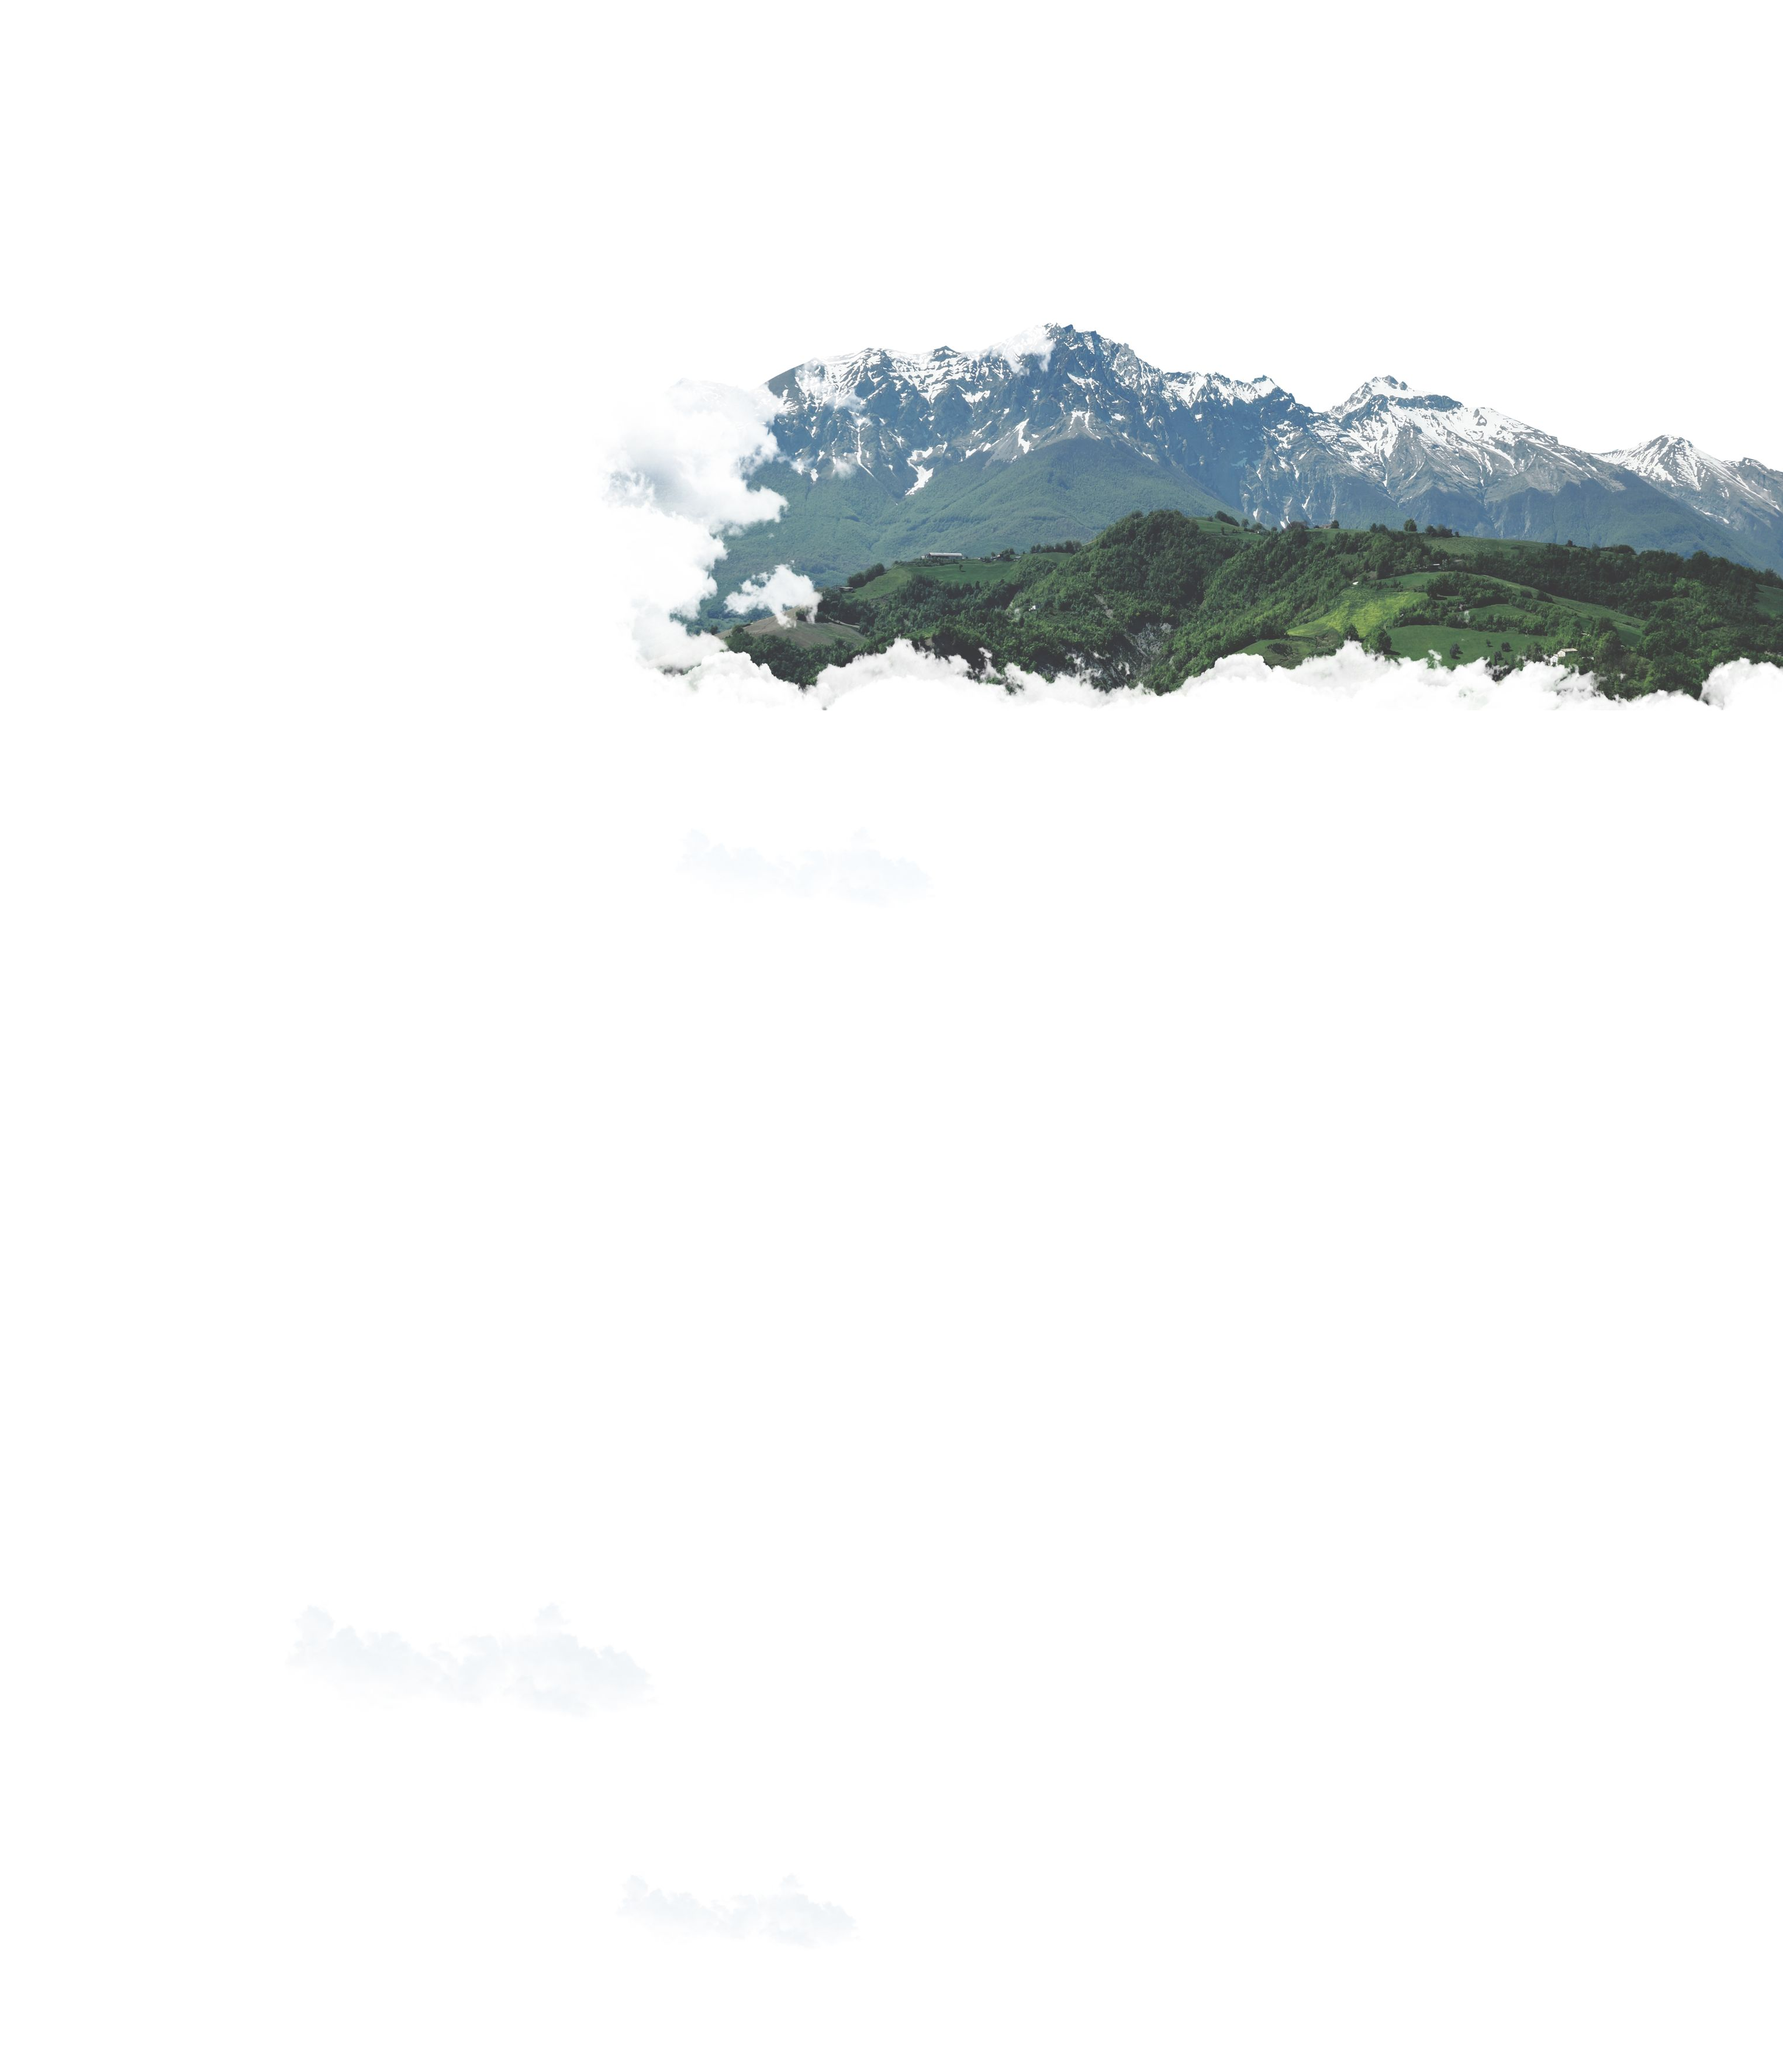
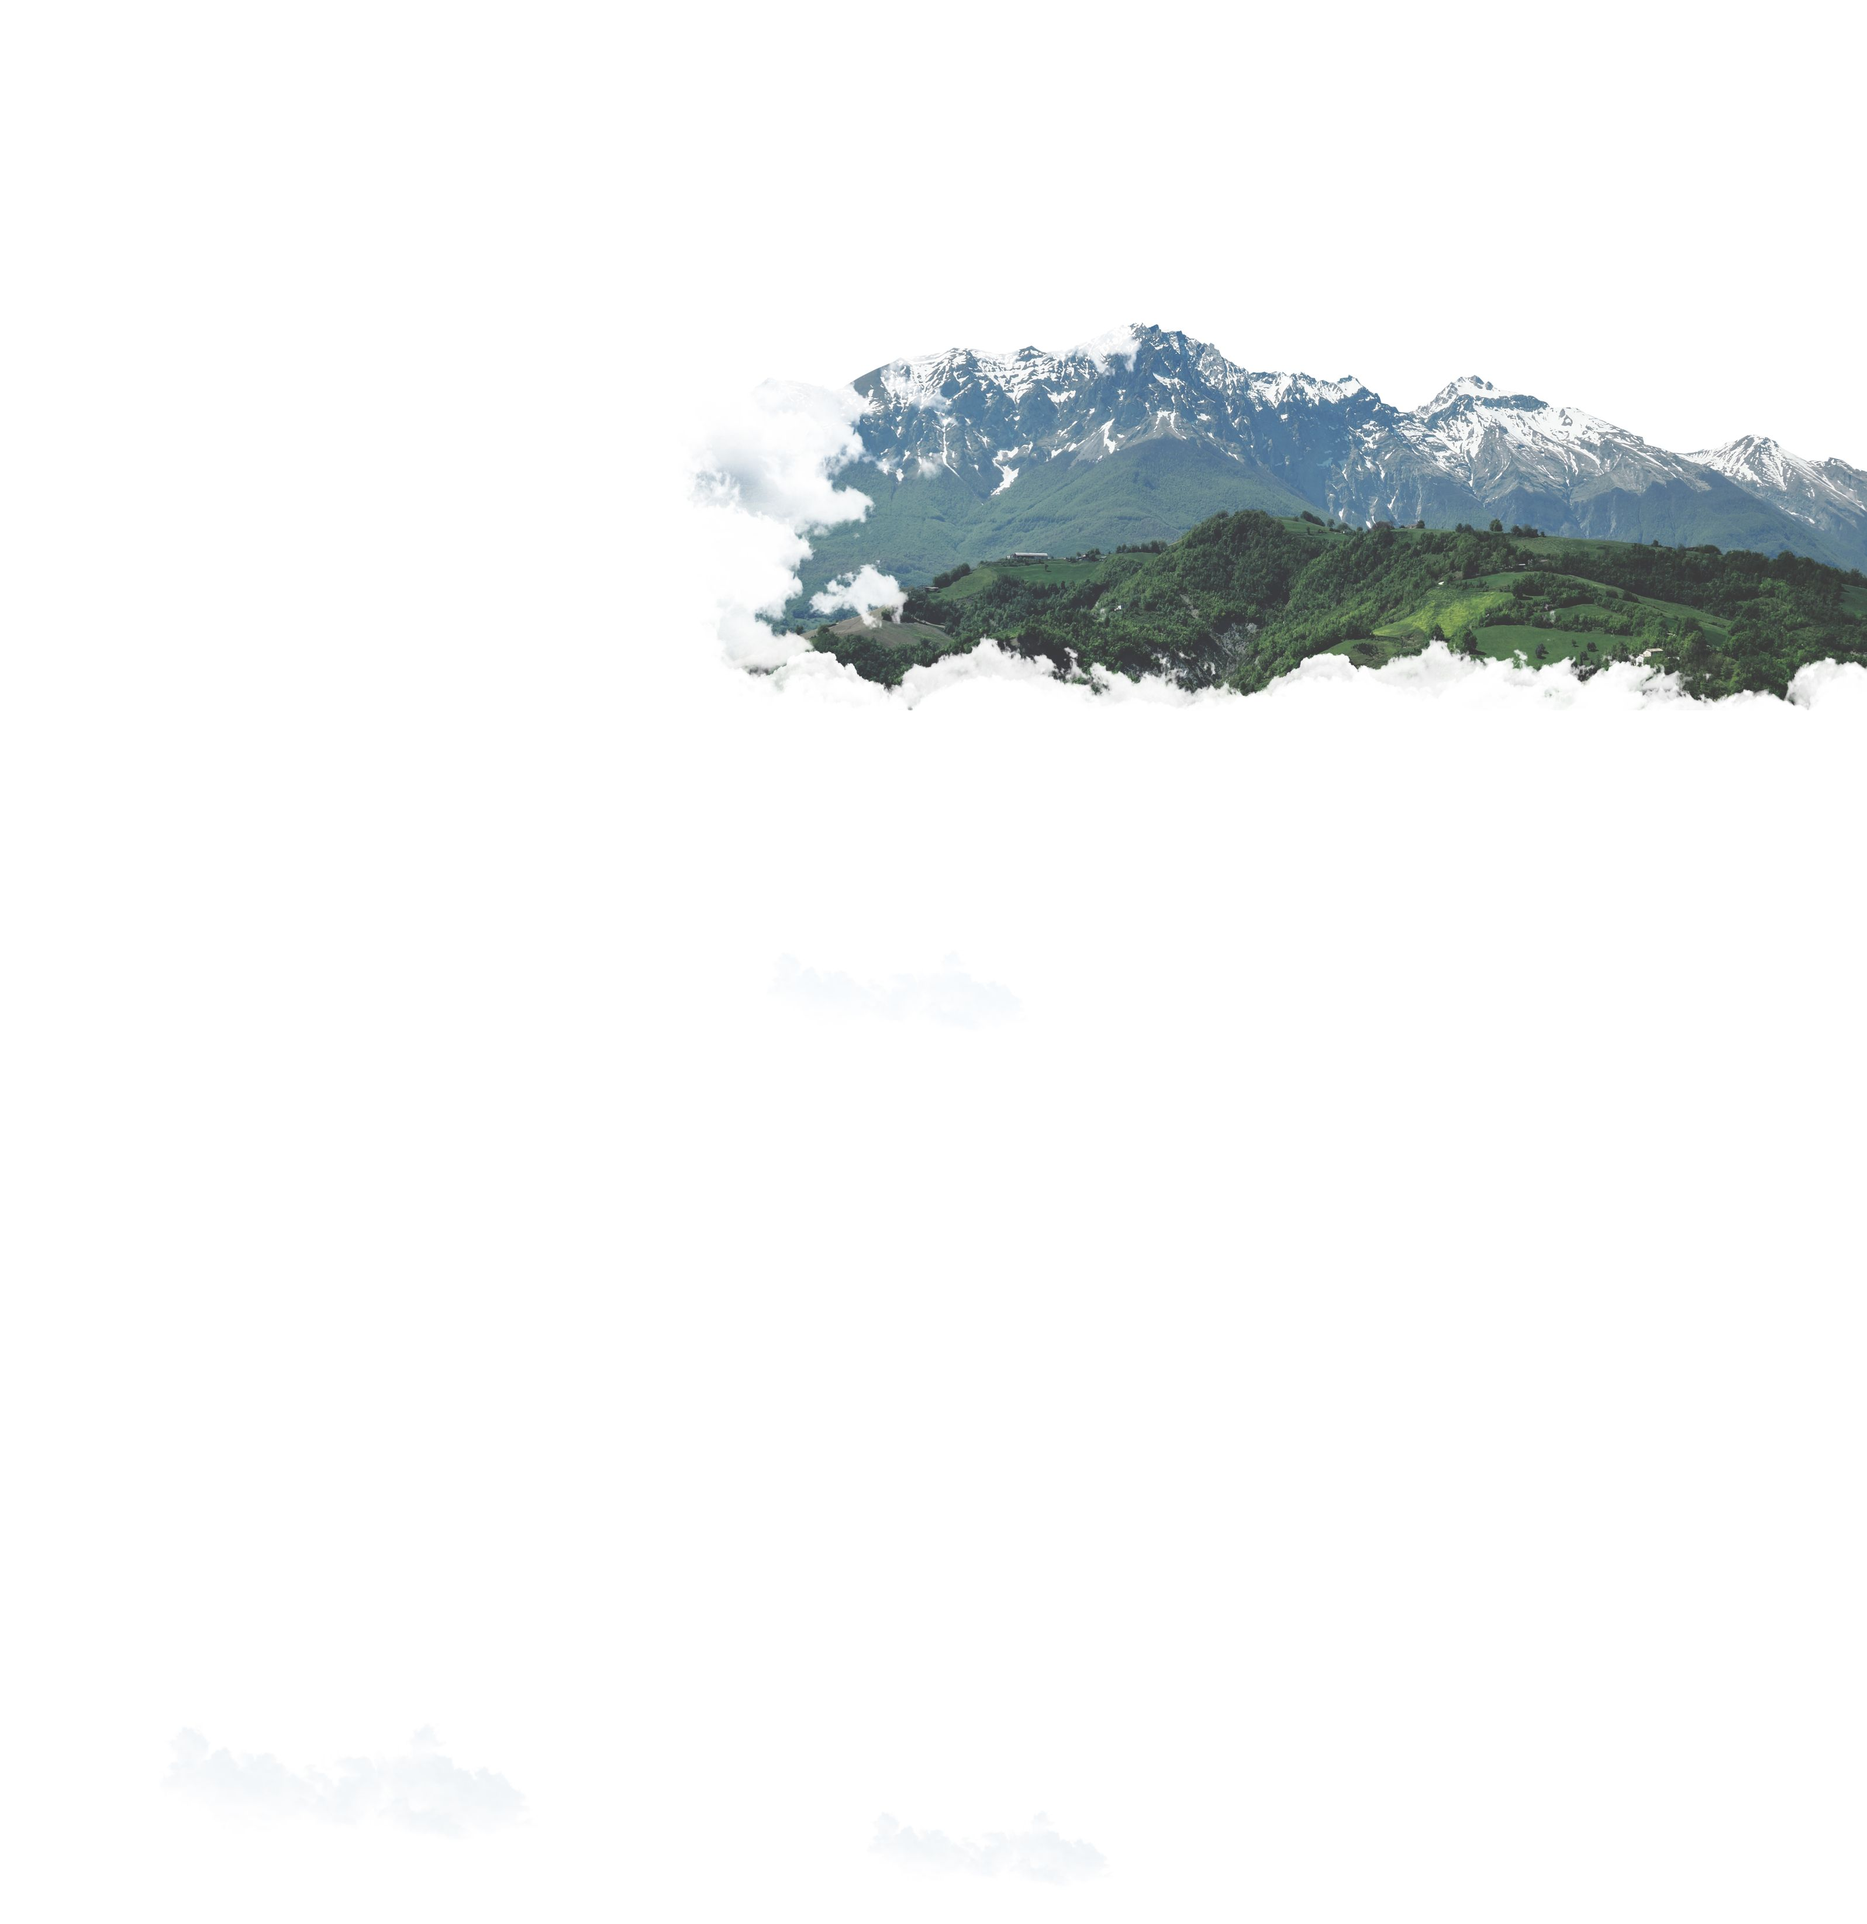
swiper-adv refactoring

Changed region(s): [[0.3426, 0.155, 1.0, 0.372]]

diff --git a/source/js/modules/swiper-adv.js b/source/js/modules/swiper-adv.js
@@ -3,46 +3,53 @@ import { Navigation } from 'swiper/modules';
 import 'swiper/scss';
 
 export function initializeAdvSwiper() {
-  const isDesktop = window.innerWidth >= 1440;
-  let advSlider;
+  let advSlider = null;
 
-  if (isDesktop && !advSlider) {
-    advSlider = new Swiper('.advantages__swiper', {
-      modules: [Navigation],
-      loop: true,
-      grabCursor: true,
-      normalizeSliderIndex: true,
-      navigation: {
-        nextEl: '.advantages__button.swiper-button-next',
-        prevEl: '.advantages__button.swiper-button-prev',
-      },
-      slidesPerView: 3.3,
-      spaceBetween: 30,
-      slidesPerGroup: 2,
-      slidesOffsetBefore: -290,
-    });
-  } else if (!isDesktop && advSlider) {
-    advSlider.destroy(true, true);
-    advSlider = null;
-  }
+  const initOrDestroySwiper = () => {
+    const isDesktop = window.innerWidth >= 1440;
 
-  const prevButton = document.querySelector('.advantages__button.swiper-button-prev');
-  const nextButton = document.querySelector('.advantages__button.swiper-button-next');
+    if (isDesktop && !advSlider) {
+      advSlider = new Swiper('.advantages__swiper', {
+        modules: [Navigation],
+        loop: true,
+        grabCursor: true,
+        normalizeSlideIndex: true,
+        navigation: {
+          nextEl: '.advantages__button.swiper-button-next',
+          prevEl: '.advantages__button.swiper-button-prev',
+        },
+        slidesPerView: 3.3,
+        spaceBetween: 30,
+        slidesPerGroup: 2,
+        slidesOffsetBefore: -290,
+      });
 
-  if (prevButton && nextButton) {
-    prevButton.setAttribute('tabindex', '0');
-    nextButton.setAttribute('tabindex', '0');
+      const prevButton = document.querySelector('.advantages__button.swiper-button-prev');
+      const nextButton = document.querySelector('.advantages__button.swiper-button-next');
 
-    prevButton.addEventListener('keydown', (event) => {
-      if (event.key === 'Enter') {
-        advSlider.slidePrev();
+      if (prevButton && nextButton) {
+        prevButton.setAttribute('tabindex', '0');
+        nextButton.setAttribute('tabindex', '0');
+
+        prevButton.addEventListener('keydown', (event) => {
+          if (event.key === 'Enter') {
+            advSlider.slidePrev();
+          }
+        });
+
+        nextButton.addEventListener('keydown', (event) => {
+          if (event.key === 'Enter') {
+            advSlider.slideNext();
+          }
+        });
       }
-    });
+    } else if (!isDesktop && advSlider) {
+      advSlider.destroy(true, true);
+      advSlider = null;
+    }
+  };
 
-    nextButton.addEventListener('keydown', (event) => {
-      if (event.key === 'Enter') {
-        advSlider.slideNext();
-      }
-    });
-  }
+  initOrDestroySwiper();
+
+  window.addEventListener('resize', initOrDestroySwiper);
 }

diff --git a/source/sass/blocks/main-container.scss b/source/sass/blocks/main-container.scss
@@ -51,10 +51,10 @@ main {
         url("../../img/images/clouds-desktop@2x.jpg") 2x,
       );
 
-      width: 3196px;
+      width: 3193px;
       height: 3290px;
       top: 674px;
-      left: -239px;
+      left: -238px;
     }
   }
 
